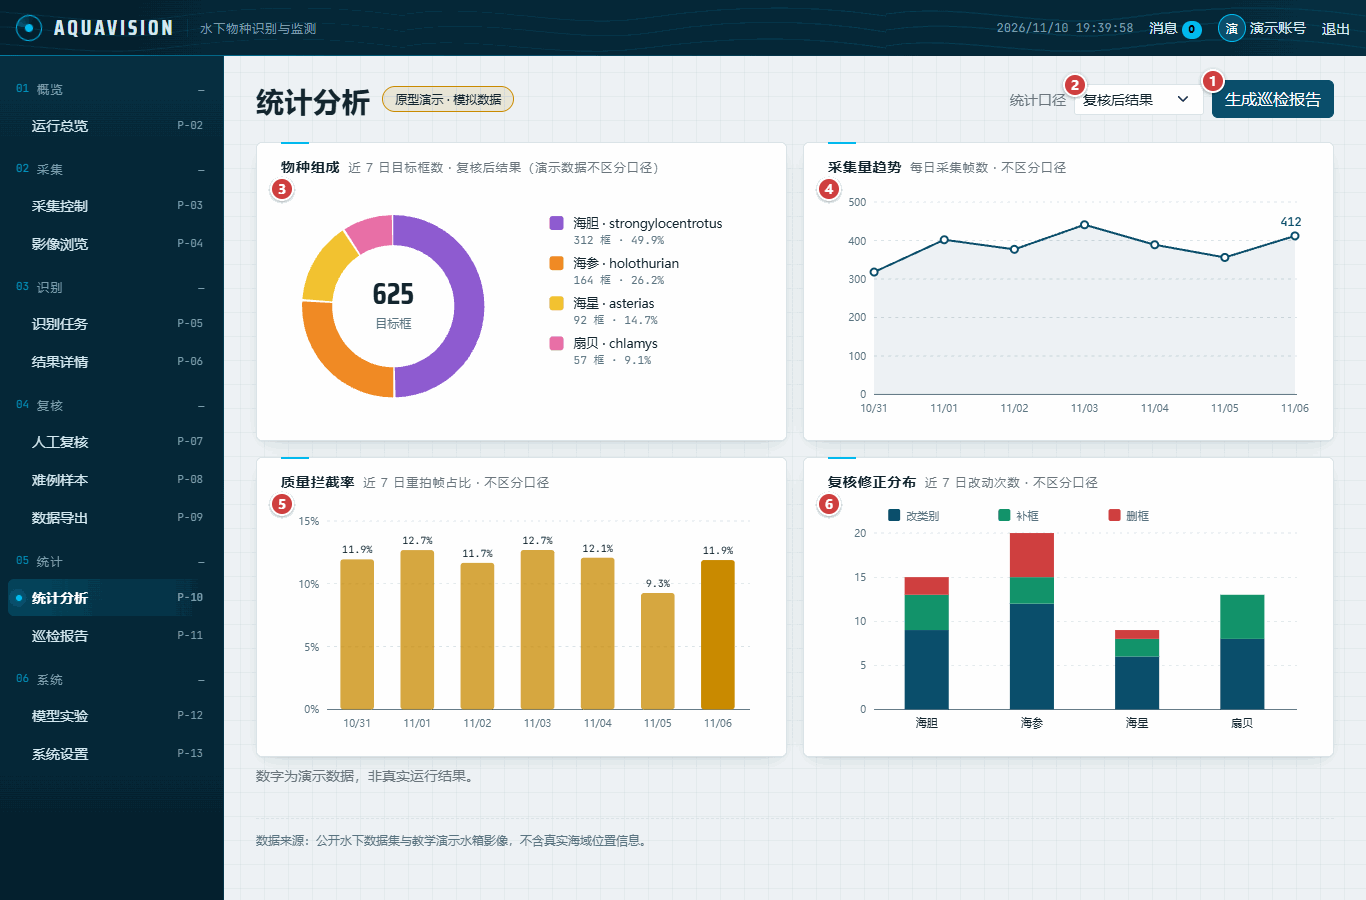
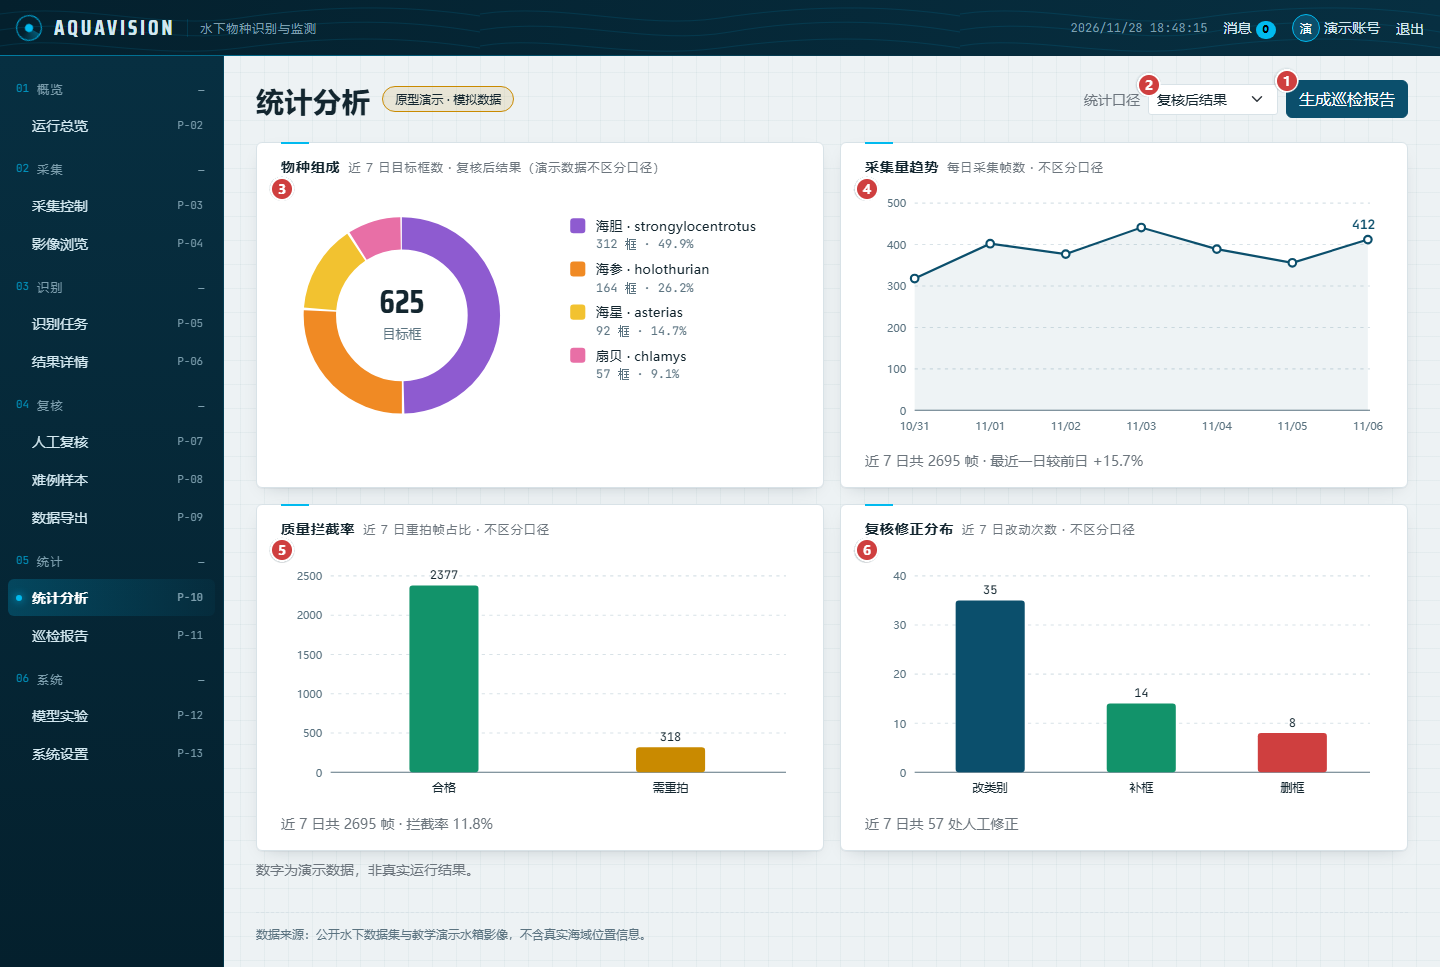
docs(traceability): twelve figures regenerated from the current build (P3-36)
Figures 1-2 and 4-13 were captured from the current build in demo mode at 1440 px, and the hand-drawn red numbered callouts every matrix row cites were transplanted: discs detected by colour, positions mapped by measurement (the shell does not scale, only the content grid stretches), each paste re-anchored by annular cross-correlation and checked against its row - 93 pastes. The traceability pair gains revision row 1.5 and a note. Two exceptions are recorded rather than hidden: figure 3 keeps the previous capture because the mock capture page no longer renders a live frame (three callouts would land on blank card), and figure 1 has no callout 4 because the sign-in page shows no refusal until a sign-in fails. P3-36 stays open for those two. Touches lane D: the task is @IkeaFyj's, executed by the lead.

diff --git a/docs/traceability-en.md b/docs/traceability-en.md
@@ -28,11 +28,13 @@ Every screen of the prototype, element by element, traced to the requirement it 
 | 1.2 | 2026-11-10 | Yao Tianyu, Sun Jianheng | Page names follow SRS V1.11 §5.2 (#122); the image-browser and result-detail templates and figures are renamed (#127) |
 | 1.3 | 2026-11-11 | Sun Jianheng | P-07 gains the zoom row (TM-062), so the ids after it shift by one: 108 rows (#137); TM-056 points at the CSV export button (#138) |
 | 1.4 | 2026-11-11 | Sun Jianheng | Every in-progress row reviewed against the real server: 17 rows move to Done in COD (TM-041, TM-047, TM-048, TM-058 to TM-068, TM-074, TM-105, TM-106, numbered as in this version); the UT column is filled where a test runs the element's logic; two elements SRS §5.2 lists but the pages lack get rows of their own (Recent jobs on P-02, Version compare and rollback on P-07): 110 rows |
+| 1.5 | 2026-11-28 | Yao Tianyu | Figures 1–2 and 4–13 regenerated from the current build (demo mode, 1440 px) and their callouts re-mapped and checked against the rows; figure 3 keeps the previous capture (the mock capture page no longer renders a live frame) and figure 1 has no callout 4 (no refusal message until a sign-in fails) |
 
 ## 3. How to read it
 
 - **Figure N, callout M** points at the red numbered circle M on figure N. Callouts are numbered in reading order within each screen; a row with no callout describes an element the requirement asks for that is not on screen.
 - **Screenshots show the prototype in demo mode** (`?mock=1`). The status columns describe the system against the real server: an element that only works on mock data is not counted as done.
+- **Regenerated 2026-11-28**: figures 1–2 and 4–13 were captured from the current build in demo mode at 1440 px wide, and their callouts were re-mapped from the previous figures (93 pastes, each checked against the row that cites it). Figure 3 keeps the previous capture: the mock capture page no longer renders a live frame, so three of its callouts would land on blank card. Figure 1 has no callout 4 because the current sign-in page shows no refusal message until a sign-in fails.
 - **PD** — screen design exists and was reviewed in the prototype walkthrough. **COD** — coded and checked against the real server; the revision history says when. **UT** — Done when an automated test runs the element's own logic and checks the result (`tests/test_review_canvas.py`, `tests/test_result_csv.py`); In progress when a test only checks it from the source text (`tests/test_page_names.py`, `tests/test_live_socket.py`). Server tests cover the routes behind many rows, but they do not exercise the element, so they are not counted here.
 - **Assignee** builds the element; **owner** answers for the screen.
 

diff --git a/docs/traceability-zh.md b/docs/traceability-zh.md
@@ -28,11 +28,13 @@
 | 1.2 | 2026-11-10 | 姚天宇、孙健恒 | 页面名称改为 SRS V1.11 §5.2 的名称（#122）；影像浏览与结果详情的模板和插图改名（#127） |
 | 1.3 | 2026-11-11 | 孙健恒 | P-07 增加缩放一行（TM-062），其后编号顺延一位：108 行（#137）；TM-056 指向 CSV 导出按钮（#138） |
 | 1.4 | 2026-11-11 | 孙健恒 | 逐行复查进行中的元素并对真实服务端验证：17 行的 COD 改为完成（TM-041、TM-047、TM-048、TM-058 至 TM-068、TM-074、TM-105、TM-106，按本版编号）；UT 列按实际运行元素逻辑的测试填写；SRS §5.2 列出而页面缺少的两项各增一行（P-02 最近任务、P-07 版本对比与回滚）：110 行 |
+| 1.5 | 2026-11-28 | 姚天宇 | 图 1–2 与图 4–13 按当前构建重新生成（演示模式，1440 像素），图标按旧图重映射并逐行核对；图 3 沿用旧截图（模拟采集页不再渲染实时画面），图 1 无图标 4（真正登录失败前不显示拒绝提示） |
 
 ## 三、阅读方法
 
 - **参照图 N，图标 M** 指图 N 上编号为 M 的红色圆形图标。每个界面内按阅读顺序编号；没有图标的行，描述的是需求要求、但画面上还没有的元素。
 - **截图为演示模式下的原型**（`?mock=1`）。状态列描述的是连接真实服务端时的情况：只能在模拟数据上运行的元素不算完成。
+- **2026-11-28 重新生成**：图 1–2 与图 4–13 取自当前构建的演示模式，宽 1440 像素，红色编号图标按旧图重新映射（共 93 处，逐处对照引用它的行核对）。图 3 沿用旧截图：模拟模式下的采集页不再渲染实时画面，其三个图标会落在空白卡片上。图 1 没有图标 4，因为当前登录页在真正登录失败前不显示拒绝提示。
 - **PD**——界面设计已完成并在原型走查中评审过。**COD**——已编码，并对真实服务端验证过，验证日期见变更履历。**UT**——有自动化测试实际运行该元素的逻辑并检查结果，记为完成（`tests/test_review_canvas.py`、`tests/test_result_csv.py`）；测试只从源码文本上检查该元素，记为进行中（`tests/test_page_names.py`、`tests/test_live_socket.py`）。服务端测试覆盖了许多行背后的接口，但不运行界面元素本身，因此不计入此列。
 - **担当者**负责实现该元素；**责任者**对该界面负责。
 

diff --git a/PROGRESS.md b/PROGRESS.md
@@ -138,6 +138,19 @@
   open cosmetic, zero blocker and zero major open. The last section prints the commands that reproduce
   every number, so the report is checkable rather than trusted.
 
+- **P3-36, twelve of thirteen: the traceability figures now show the build that ships.** The old
+  screenshots predated the page renames and restyle. Figures 1-2 and 4-13 were captured from the current
+  build in demo mode at 1440 px wide, and because every matrix row points at a hand-drawn red numbered
+  callout, those callouts were transplanted onto the new captures: the crimson circles were detected in
+  the old figures, mapped by measurement rather than by a uniform scale (the shell does not scale - the
+  sidebar, titles and body rows sit at identical pixels, only the content grid stretches), re-anchored by
+  annular cross-correlation, and pasted at native size - 93 pastes, all scoring above the acceptance
+  threshold and each checked against the row that cites it. `docs/traceability-en/zh.md` gains a revision
+  row and a note; the two exceptions are written down rather than papered over: figure 3 keeps the
+  previous capture because the mock capture page no longer renders a live frame (three callouts would
+  land on blank card), and figure 1 has no callout 4 because the current sign-in page shows no refusal
+  message until a sign-in fails. `PLAN.md` keeps P3-36 open for those two.
+
 ## 2026-11-27
 
 - **P2-20: a fresh environment built from `requirements.txt` runs the delivered weights.** Walked

diff --git a/PLAN.md b/PLAN.md
@@ -769,6 +769,14 @@ Handles: `@FrozenYty` Tianyu Yao · `@Gtechson` Gao Tianxiang · `@chemflowers` 
       screenshots are regenerated from the current build and each is referenced by the matrix row it
       illustrates
       - the pages were renamed and restyled since the figures were taken
+      - **11-28: twelve of the thirteen are regenerated and this task is not done.** Figures 1-2 and
+        4-13 were captured from the current build (demo mode, 1440 px) and their hand-drawn callouts
+        re-mapped from the previous figures - 93 pastes, each checked against the row that cites it,
+        and a revision row records the date. Figure 3 keeps the previous capture because the mock
+        capture page no longer renders a live frame: three of its callouts would land on blank card,
+        so replacing it would make the matrix wrong rather than current. Figure 1 has no callout 4
+        for a different reason - the sign-in page shows no refusal message until a sign-in fails, so
+        the screenshot cannot show one. The task stays open for figure 3 and that one callout.
 
 - [x] **P3-37** The turbidity sensor either measures or says it cannot · @FrozenYty · **closed 11-14 by
       removing the sensor**, because it could not measure and could not say anything else: a full sweep of
